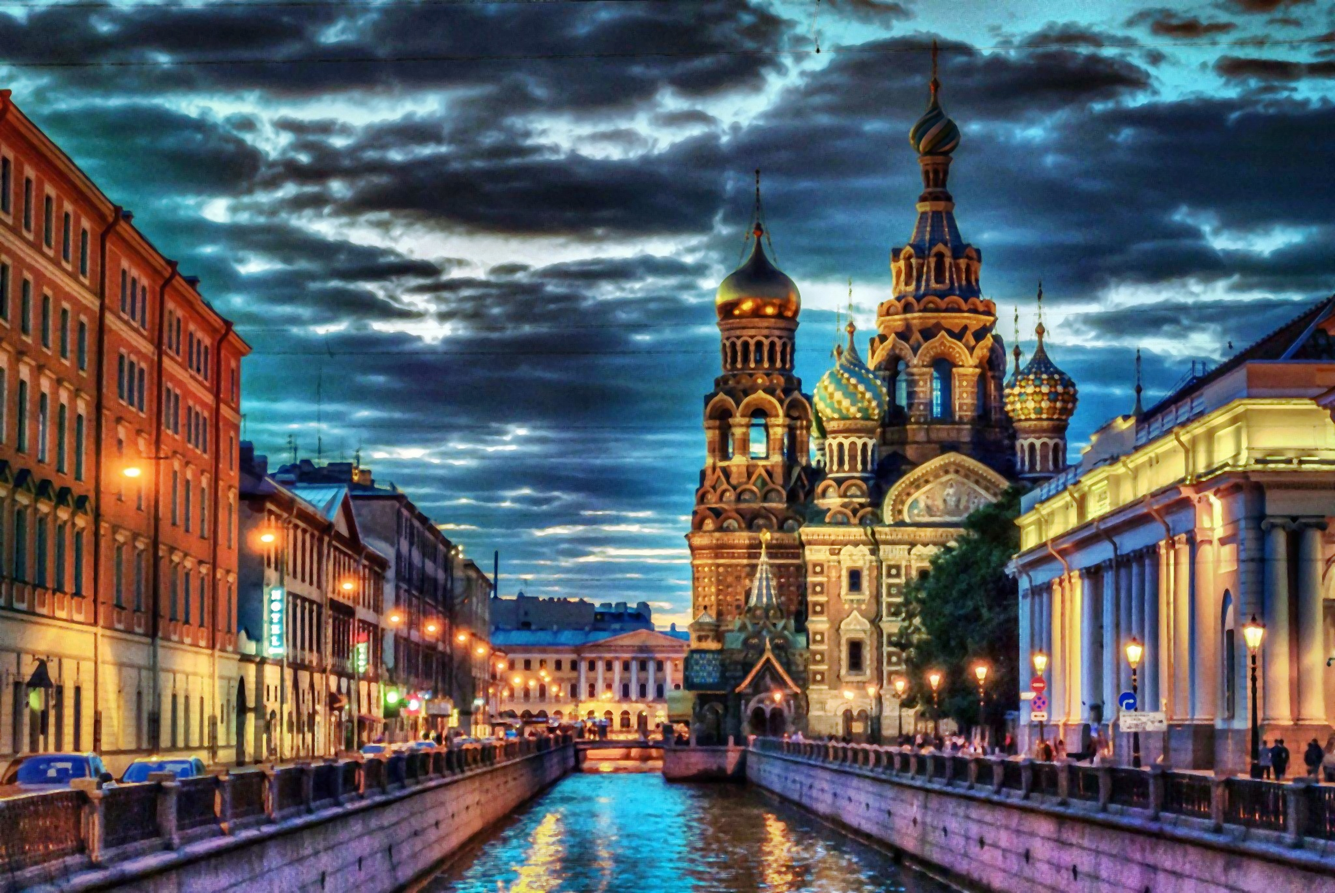
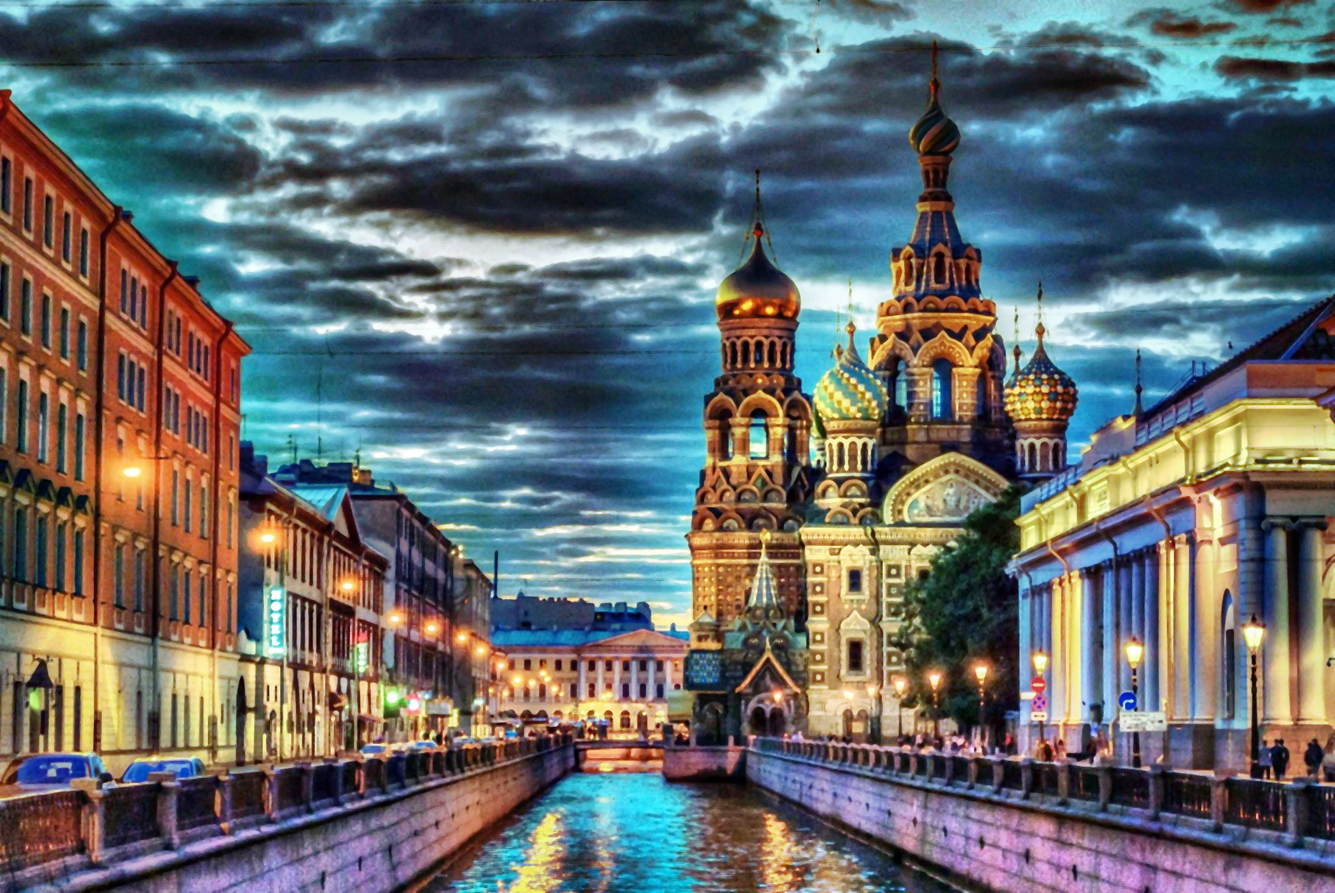
README.MD update

diff --git a/src/cool/main.py b/src/cool/main.py
@@ -6,7 +6,7 @@ for image_path in os.listdir("data/original"):
     images[image_path] = cv2.imread(f"data/original/{image_path}")
 
 for name, image in images.items():
-    clahe = cv2.createCLAHE(clipLimit=2.0, tileGridSize=(8, 8))
+    clahe = cv2.createCLAHE(clipLimit=3.0, tileGridSize=(8, 8))
     image = cv2.medianBlur(image, 5)
     channels = cv2.split(image)
     for i in range(len(channels)):
